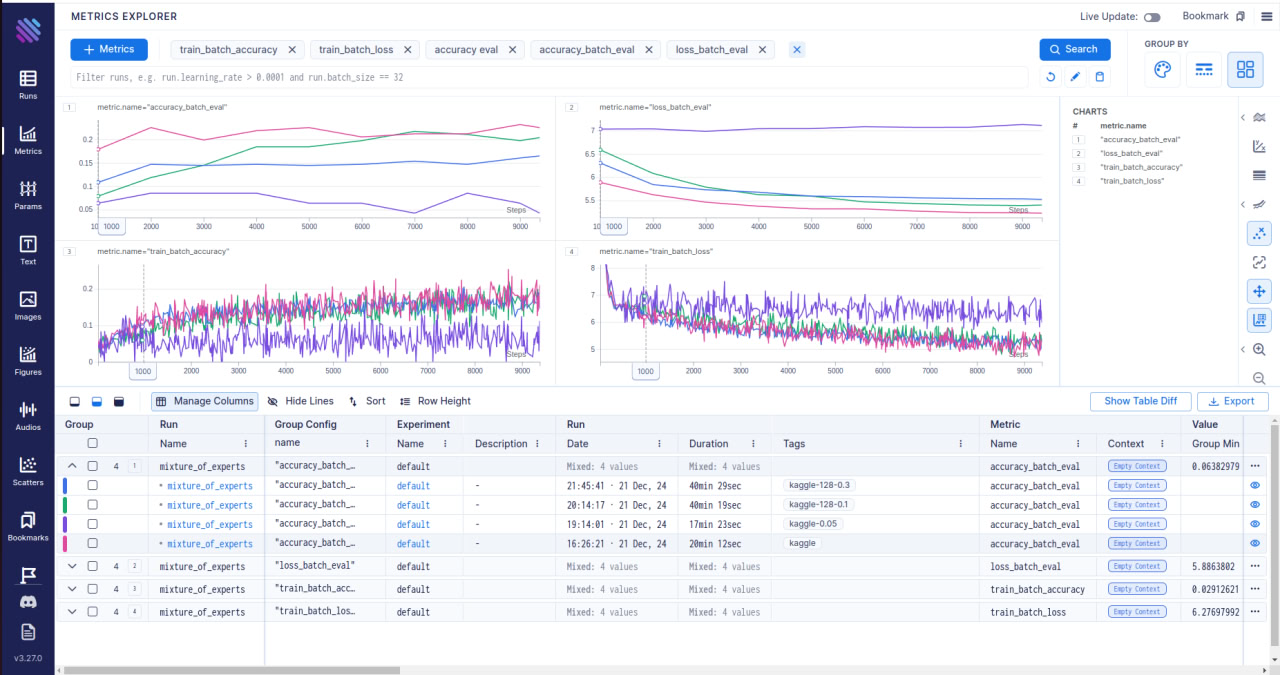
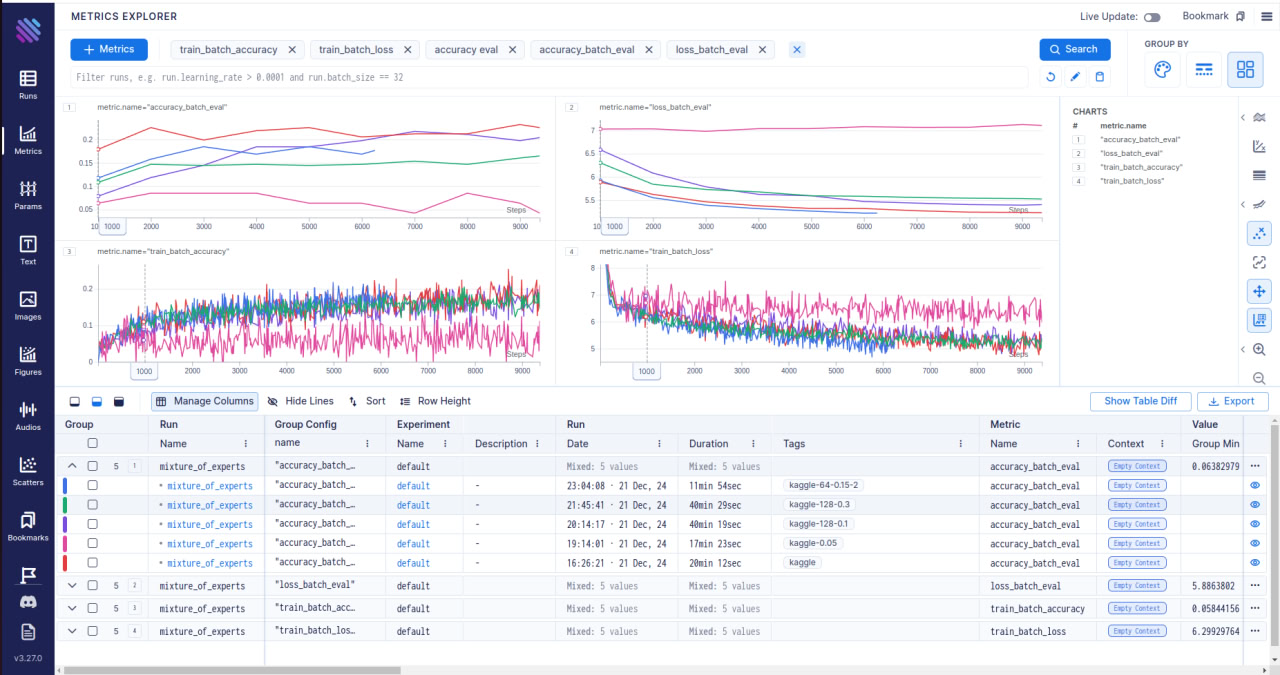
add new aim pic

diff --git a/README.md b/README.md
@@ -49,10 +49,12 @@ python train/train.py --tag name
 # Результаты экспериментов
 
 ### Обученные модели
-1. seg_len=64 mask_prob=0.15 - розовая (без тега)
-2. seg_len=64 mask_prob=0.05 - фиолетовая (тег kaggle)
-3. seg_len=128 mask_prob=0.1 - зеленая (тег kaggle-128-0.1)
-4. seg_len=128 mask_prob=0.3 - темно-синяя (тег kaggle-128-0.3)
+1. seg_len=64 mask_prob=0.15 - красная (без тега)
+2. seg_len=64 mask_prob=0.05 - розовая (тег kaggle)
+3. seg_len=128 mask_prob=0.1 - фиолетовая (тег kaggle-128-0.1)
+4. seg_len=128 mask_prob=0.3 - зеленая (тег kaggle-128-0.3)
+5. seg_len=64 mask_prob=0.15 - темно-синяя (тег kaggle-64-0.15-2)  
+    модель 5) обучена на данных выбранных с учетом других тестируемых топиков
 
 seg_len - максимальная длина последовательности  
 mask_prob - процент замаскированных токенов в одной последовательности длины seg_len
